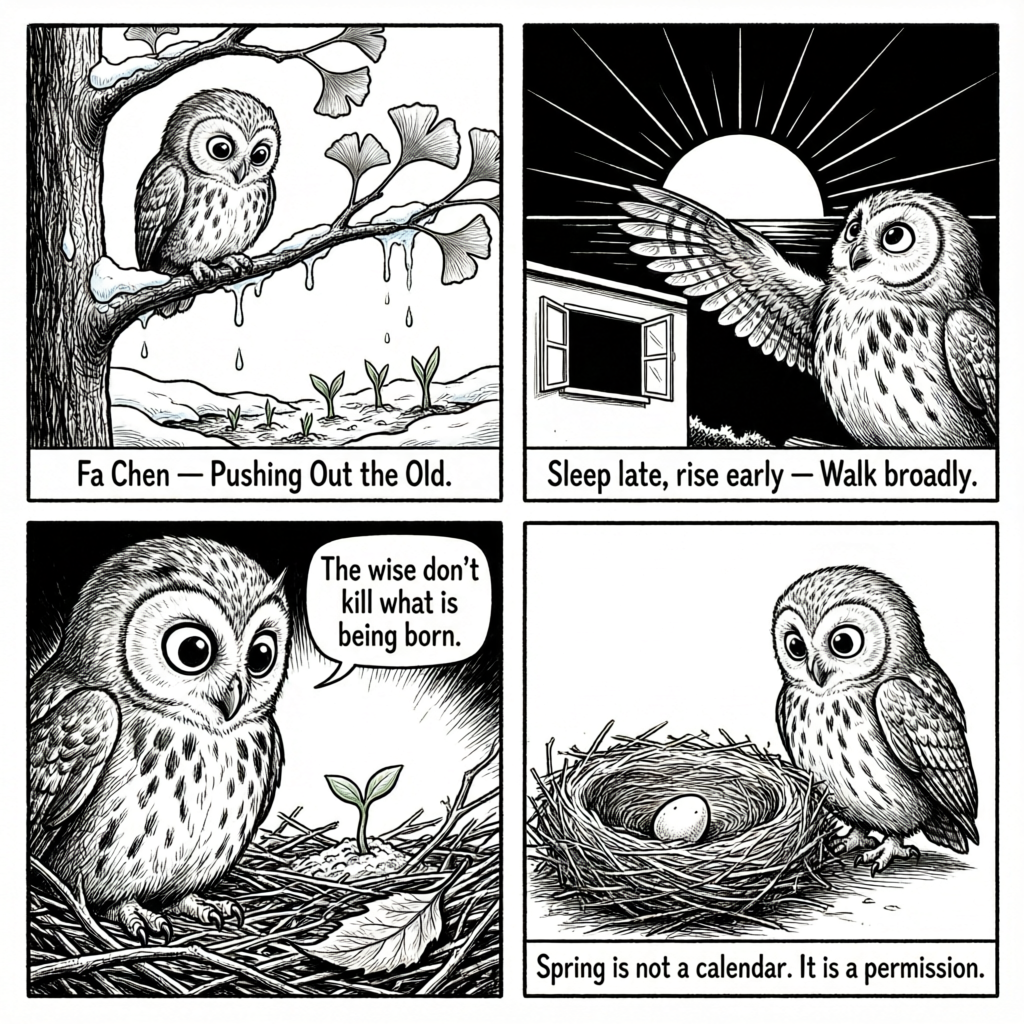
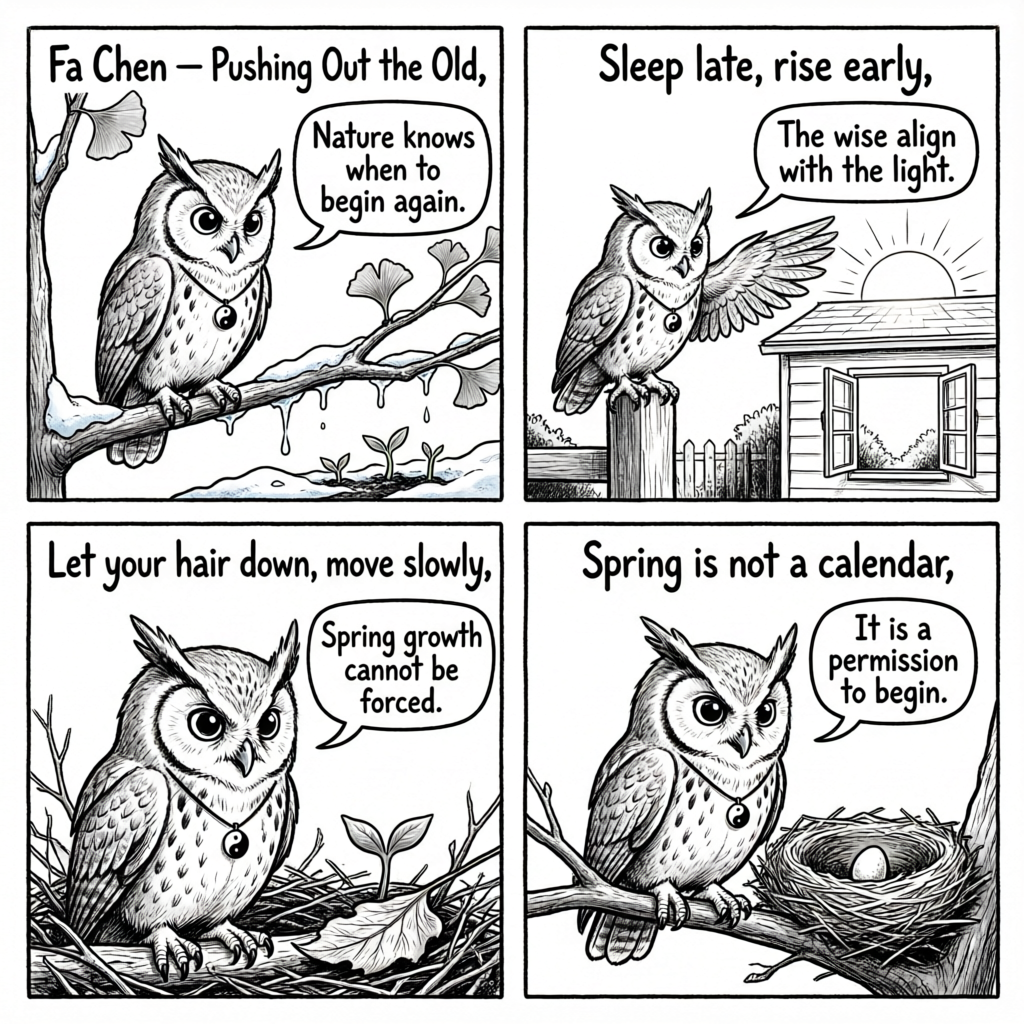
fix #40: move title to top, regenerate comic with ear tufts (SOP template), remove duplicate comic-38 ref

diff --git a/posts/40-spring-neijing-reinvention.html b/posts/40-spring-neijing-reinvention.html
@@ -96,19 +96,16 @@
   <div class="meta">July 28, 2026 &middot; By Ollie</div>
   <div class="last-updated" style="color:var(--subtle);font-size:0.85rem;margin-top:0.3rem;">Last updated: July 28, 2026</div>
 
+<h2>What a 2,000-Year-Old Springtime Guide Can Teach You About Reinvention</h2>
 <p>Have you ever felt it? That strange, quiet pull that arrives with the first truly warm day of the year. It’s a feeling that starts deep in your bones—an urge to throw open the windows, clean out the garage, or maybe even dust off that half-finished novel in your desk drawer.</p>
 
 <img class="comic-break" src="/images/comic-40-bw.png" alt="Ollie explains spring renewal" loading="lazy">
-
-
 
 <p>You might feel a sudden desire to wake up a little earlier, to walk instead of drive, to trade heavy stews for crisp salads. It’s an internal shift, a restless energy that tells you something new is on the horizon. We call it "spring fever," and we often dismiss it as a quirky side effect of the changing weather.</p>
 
 <p>But what if I told you this feeling isn't random? What if it's a profound in its simplicity part of being human? What if a 2,000-year-old medical text not only described this exact phenomenon but also laid out a map for how to harness its power for deep, lasting reinvention?</p>
 
 <p>That text is the <em>Huangdi Neijing</em> (The Yellow Emperor's Inner Classic), and its instructions for spring are more relevant today than ever. It teaches us that spring isn't just a date on the calendar; it's a state of being, an invitation from nature to begin again.</p>
-
-<h2>What a 2,000-Year-Old Springtime Guide Can Teach You About Reinvention</h2>
 
 <p>Deep within the <em>Neijing</em>, in a chapter called the "Great Treatise on Harmonizing with the Spirits of the Four Seasons," is a short, poetic guide to living in alignment with spring. This isn't a list of medical do's and don'ts. It's philosophy. It's a cultural whisper from the past, describing how to sync your inner world with the outer world.</p>
 
@@ -259,7 +256,7 @@ This is one of the most beautiful lines. In ancient China, hair was often pinned
   <img src="/images/brand/pendant-mini-40.png" alt="" width="22" height="22">
   <span>Ollie's Take</span>
 </div>
-<img class="comic-break" src="/images/comic-38-bw.png" alt="Ollie the Screech Owl explains the three superpowers of fresh ginger in a 4-panel hand-drawn comic" width="680" style="max-width:100%;" loading="lazy">
+
 
 <p><em>"Your kitchen already has medicine. You just didn't know it. That knobby little root in your vegetable drawer? It's been warming bellies and stopping colds for two thousand years. I just perch here and watch you walk past it every day."</em></p>
 
@@ -418,7 +415,7 @@ the aches and pains that come with a cold or flu, while the diaphoretic effect i
   "@type": "BlogPosting",
   "headline": "What a 2,000-Year-Old Springtime Guide Can Teach You About Reinvention",
   "description": "That knobby ginger root in your vegetable drawer is one of the most important herbs in TCM. Here's why — and exactly how to use it.",
-  "image": "https://tcmway.net/images/comic-38-bw.png",
+  "image": "https://tcmway.net/images/comic-40-bw.png",
   "datePublished": "July 28, 2026T08:00:00+08:00",
   "dateModified": "July 28, 2026T08:00:00+08:00",
   "author": {"@type": "Person", "name": "Ollie"},
